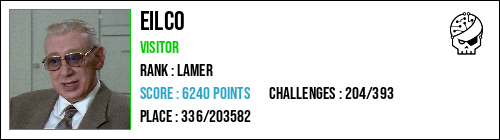
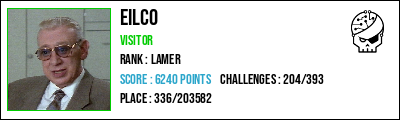
adaptative size

diff --git a/badge.php b/badge.php
@@ -110,13 +110,13 @@ class Theme
 
 class Badge
 {
-    public const WIDTH = 500;
-    public const HEIGHT = 140;
-    public const PADDING = 10;
-    public const LINE_SPACE = 10;
+    public const WIDTH = 400;
+    public const HEIGHT = 120;
 
     public function generate(Theme $theme, User $user, $file_result): void
     {
+        $padding = (int) self::HEIGHT / 14;
+        $line_space = (int) self::HEIGHT / 14;
         $image = imagecreatetruecolor(self::WIDTH, self::HEIGHT);
 
         // allocate color
@@ -136,27 +136,25 @@ class Badge
         imagerectangle($image, 0, 0, self::WIDTH-1 , self::HEIGHT -1 , $border_color);
 
         // draw profile picture
-        $width = $height = (int)self::HEIGHT - self::PADDING * 2;
-        $image = $this->draw_profile_picture($image, $user, $height, $width, self::PADDING, $img_border_color);
+        $width = $height = (int)self::HEIGHT - $padding * 2;
+        $image = $this->draw_profile_picture($image, $user, $height, $width, $padding, $img_border_color);
 
         // draw user infos
-        $x = self::PADDING * 2 + $width;
-        $y = self::PADDING;
-        $line_space = self::LINE_SPACE;
-        $nick_size = 20;
-        $font_default_size = 13;
+        $x = $padding * 2 + $width;
+        $y = $padding;
+        $nick_size = (int) self::HEIGHT / 7;
+        $font_default_size = (int) self::HEIGHT / 11;
         imagettftext($image, $nick_size, 0.0, $x, $y += $nick_size, $nick_color, $theme->font, $user->nick);
-        imagettftext($image, $font_default_size, 0.0, $x, $y += self::LINE_SPACE + $font_default_size, $status_color, $theme->font, $user->status);
-        imagettftext($image, $font_default_size, 0.0, $x, $y += self::LINE_SPACE + $font_default_size, $rank_color, $theme->font, "Rank : " . $user->rank);
-        imagettftext($image, $font_default_size, 0.0, $x, $y + self::LINE_SPACE + $font_default_size, $challenge_color, $theme->font, str_repeat("  ",strlen("Score : " . $user->points. ' Points')) . "       Challenges : " . $user->challenges . "");
-        imagettftext($image, $font_default_size, 0.0, $x, $y += self::LINE_SPACE + $font_default_size, $points_color, $theme->font, "Score : " . $user->points . ' Points');
-        imagettftext($image, $font_default_size, 0.0, $x, $y += self::LINE_SPACE + $font_default_size, $place_color, $theme->font, "Place : " . $user->place);
-//        imagestring($image, $font, $x, $y = $y + $line_space, $user->challenges, $challenge_color);
+        imagettftext($image, $font_default_size, 0.0, $x, $y += $line_space + $font_default_size, $status_color, $theme->font, $user->status);
+        imagettftext($image, $font_default_size, 0.0, $x, $y += $line_space + $font_default_size, $rank_color, $theme->font, "Rank : " . $user->rank);
+        imagettftext($image, $font_default_size, 0.0, $x, $y + $line_space + $font_default_size, $challenge_color, $theme->font, str_repeat("  ",strlen("Score : " . $user->points. ' Points')) . "       Challenges : " . $user->challenges . "");
+        imagettftext($image, $font_default_size, 0.0, $x, $y += $line_space + $font_default_size, $points_color, $theme->font, "Score : " . $user->points . ' Points');
+        imagettftext($image, $font_default_size, 0.0, $x, $y += $line_space + $font_default_size, $place_color, $theme->font, "Place : " . $user->place);
 
         // draw RM logo
         $rm_logo = imagecreatefrompng($theme->rm_logo);
         [$rm_w, $rm_h] = getimagesize($theme->rm_logo);
-        imagecopy($image, $rm_logo, (int)self::WIDTH - self::PADDING - $rm_w, self::PADDING, 0, 0, $rm_w, $rm_h);
+        imagecopy($image, $rm_logo, (int)self::WIDTH - $padding - $rm_w, $padding, 0, 0, $rm_w, $rm_h);
         imagepng($image, $file_result);
     }
 
